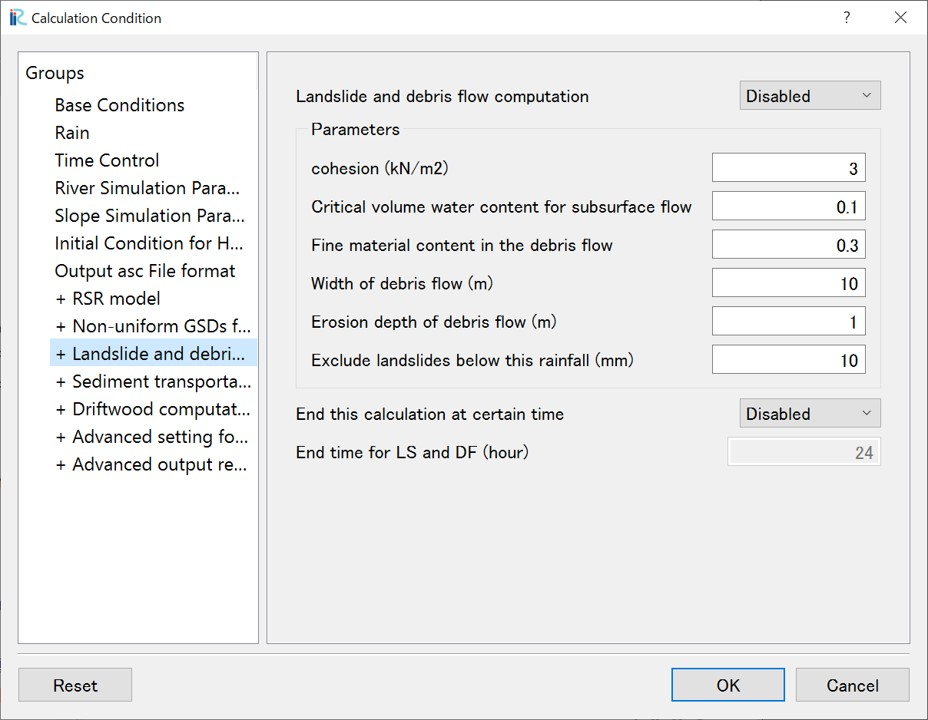
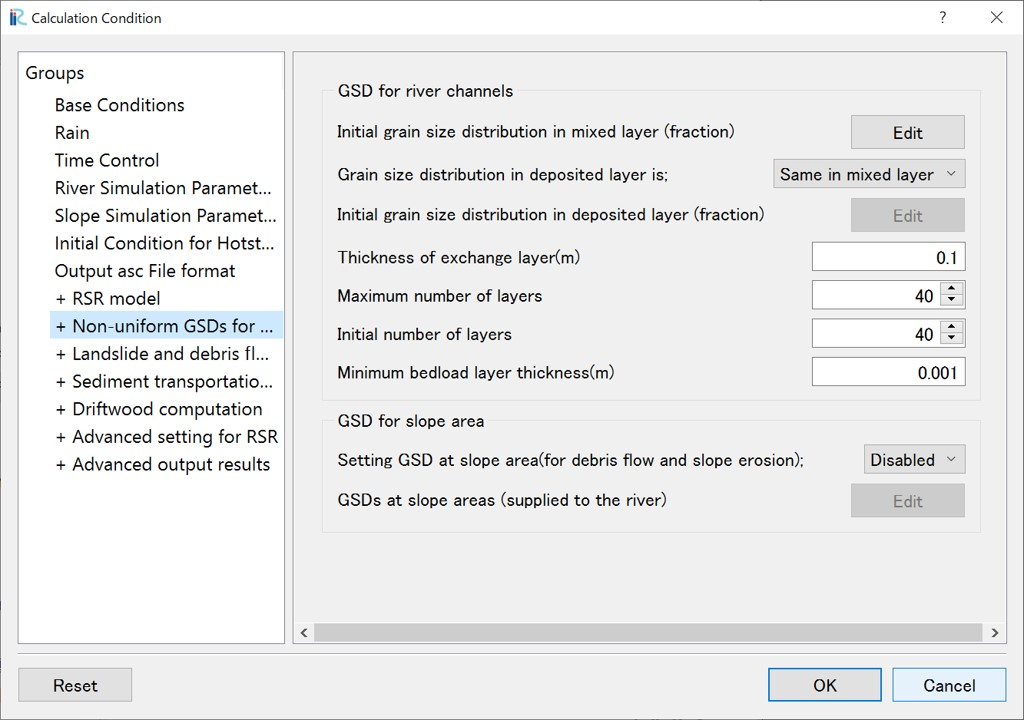
v19.5

diff --git a/source/02/06_rsr.rst b/source/02/06_rsr.rst
@@ -94,18 +94,18 @@ This section describes how to set the grain size distribution (GSD) for non-unif
 - Minimum bedload layer thickness(m)：When employing the Egashira et al. formula for bed load transport, the exchange layer thickness is dynamically calculated, and its minimum value is set here.
 - GSD for slope area：Sets the grain size distribution of sediment supplied to the river channel from landslides and debris flows (①-1) and hillslope erosion (①-2).
 
-6.4. 崩壊・土石流の条件設定
+6.4. Landslide and debris flow
 --------------------------------------------------
-崩壊・土石流の解析（①ー１）を行う場合、解析条件、解析パラメータ等をここで設定します。
+This section describes how to set the calcilation conditions and parameters when performing landslide and debris flow analysis (①-1).
 
-.. figure:: img/RSR_cond_4.jpg
+.. figure:: img/RSR_cond_4_en.jpg
    :scale: 60%
    :alt:
 
 
-- 一般的なパラメータ設定法については文献 [1]_ ,等を参照してください。
-- この雨量以下の斜面崩壊を無視：崩壊・土石流の解析では流域内の全ての斜面セルで安定解析を行います。初期の地形データ（DEM）の影響で、わずかの雨でも斜面崩壊が判定される場合があります。それを避けるために、この雨量以下で崩壊する斜面に対しては斜面崩壊の計算を行いません。
-- 一定時間経過以降　崩壊・土石流を計算しない：崩壊・土石流の計算は流域内全ての斜面セルで行うため、計算時間が長くなります。一方で、崩壊・土石流の発生は豪雨のピーク時に限られており、豪雨のピーク以降崩壊・土石流の解析を行わないことで総計算時間を短縮できます。ここで設定する「崩壊・土石流解析の終了時刻」以降は崩壊・土石流の解析を行いません。
+- For general parameter setting methods, please refer to references such as [1]_.
+- Exclude landslides below this rainfall (mm): In landslide analysis, stability calculations are performed for all slope cells within the watershed. Due to the influence of the initial elevation (DEM), slope failures may be triggered even with small amounts of rainfall. To avoid this, slope failure calculations are not performed for slopes that would fail with rainfall amounts below this threshold.
+- End time for LS and DF (hour): Landslide and debris flow calculations takes time because they are performed for all slope cells in the watershed. However, landslides and debris flows tend to occur primarily during the peak of heavy rainfall events. By stopping the landslide and debris flow analysis after a specified "End time for LS and DF (hour)", the total calculation time can be reduced. Landslide and debris flow analysis will not be performed after the time set here.
 
 6.5. 斜面セルの土砂輸送
 --------------------------------------------------
